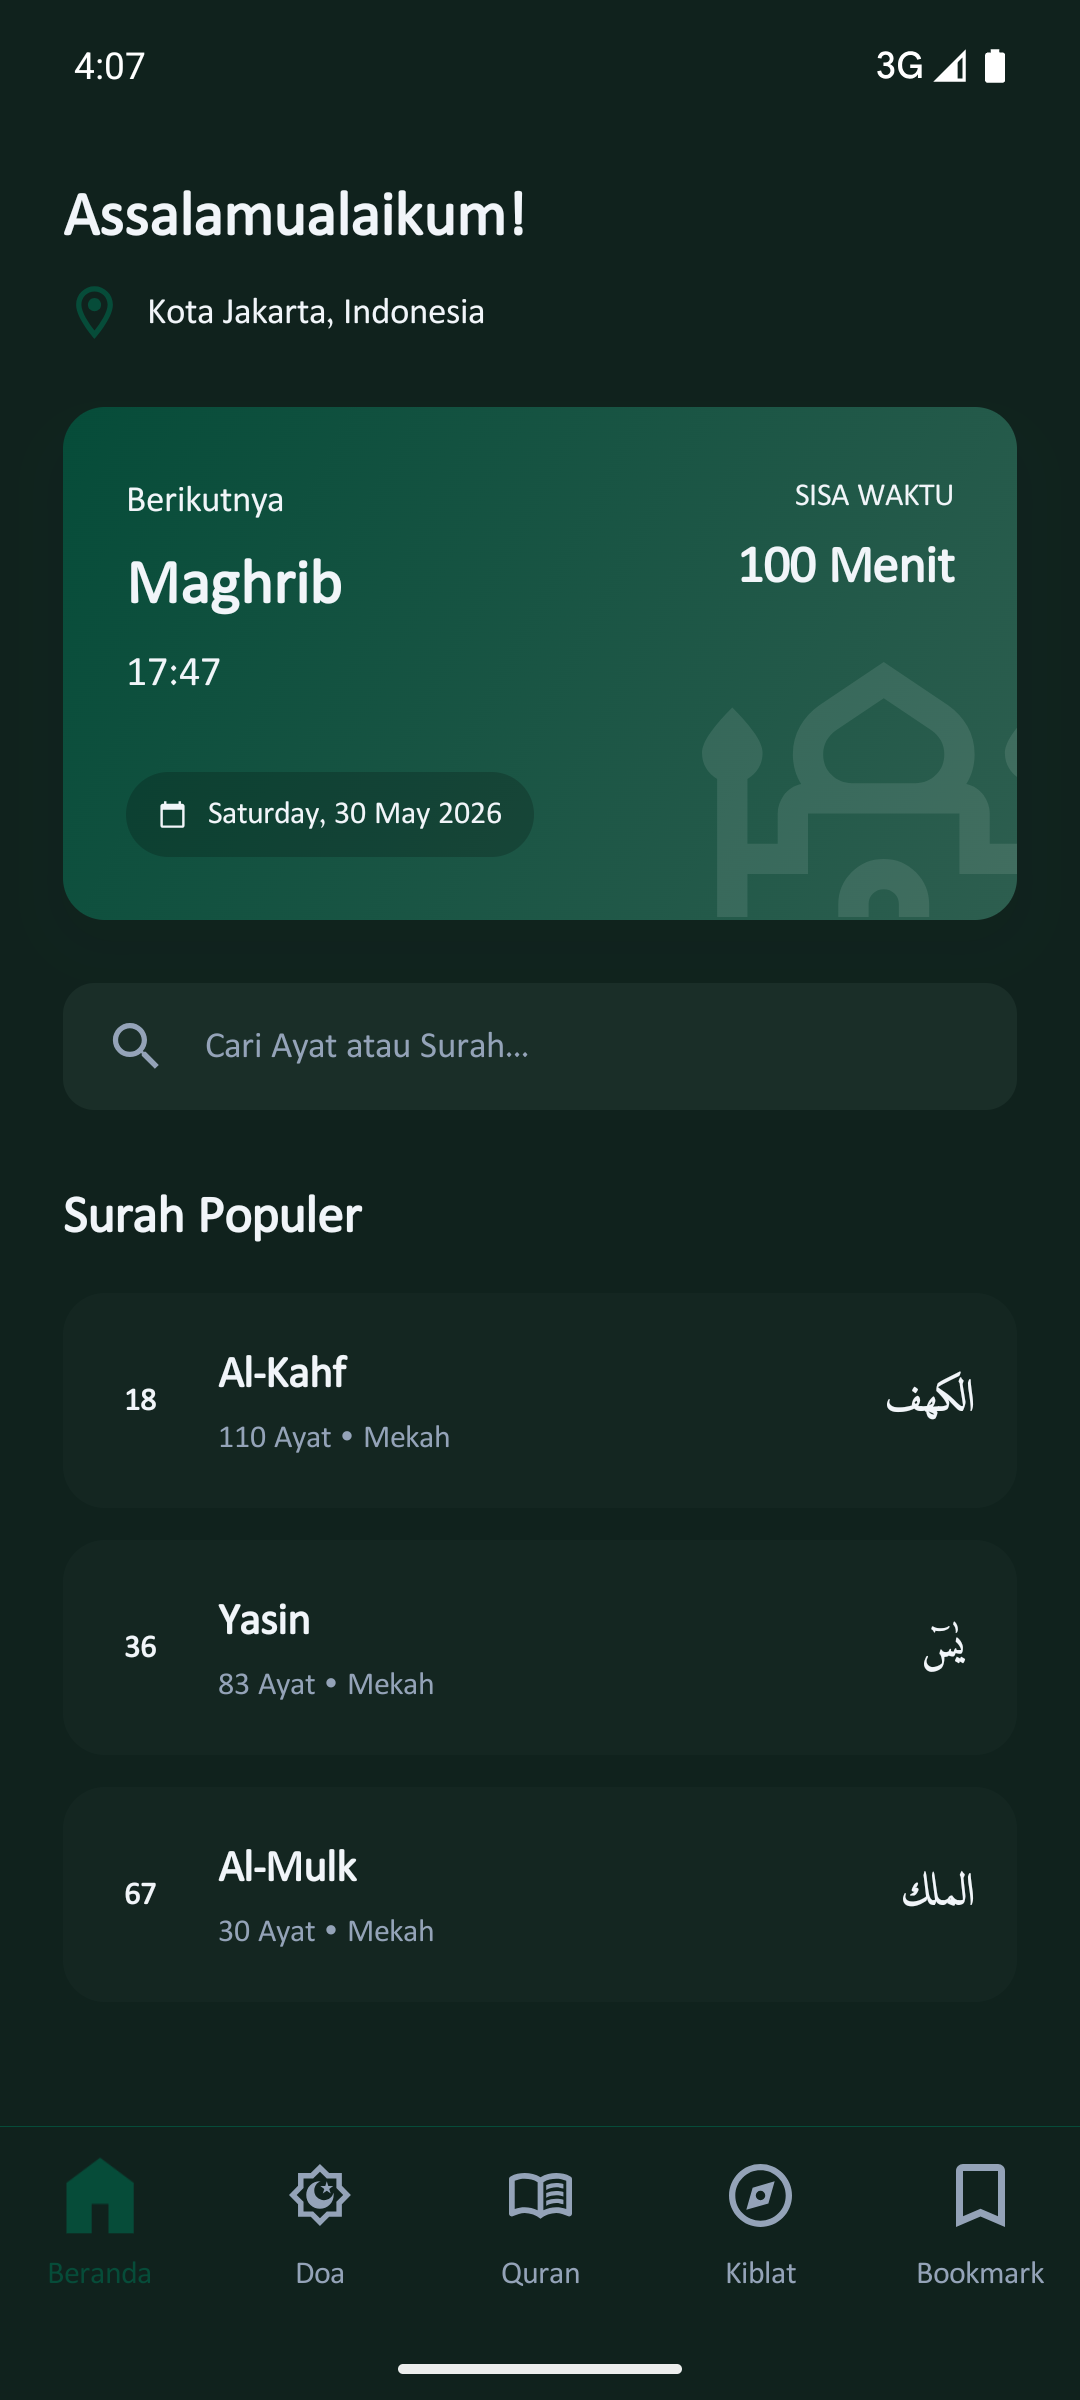
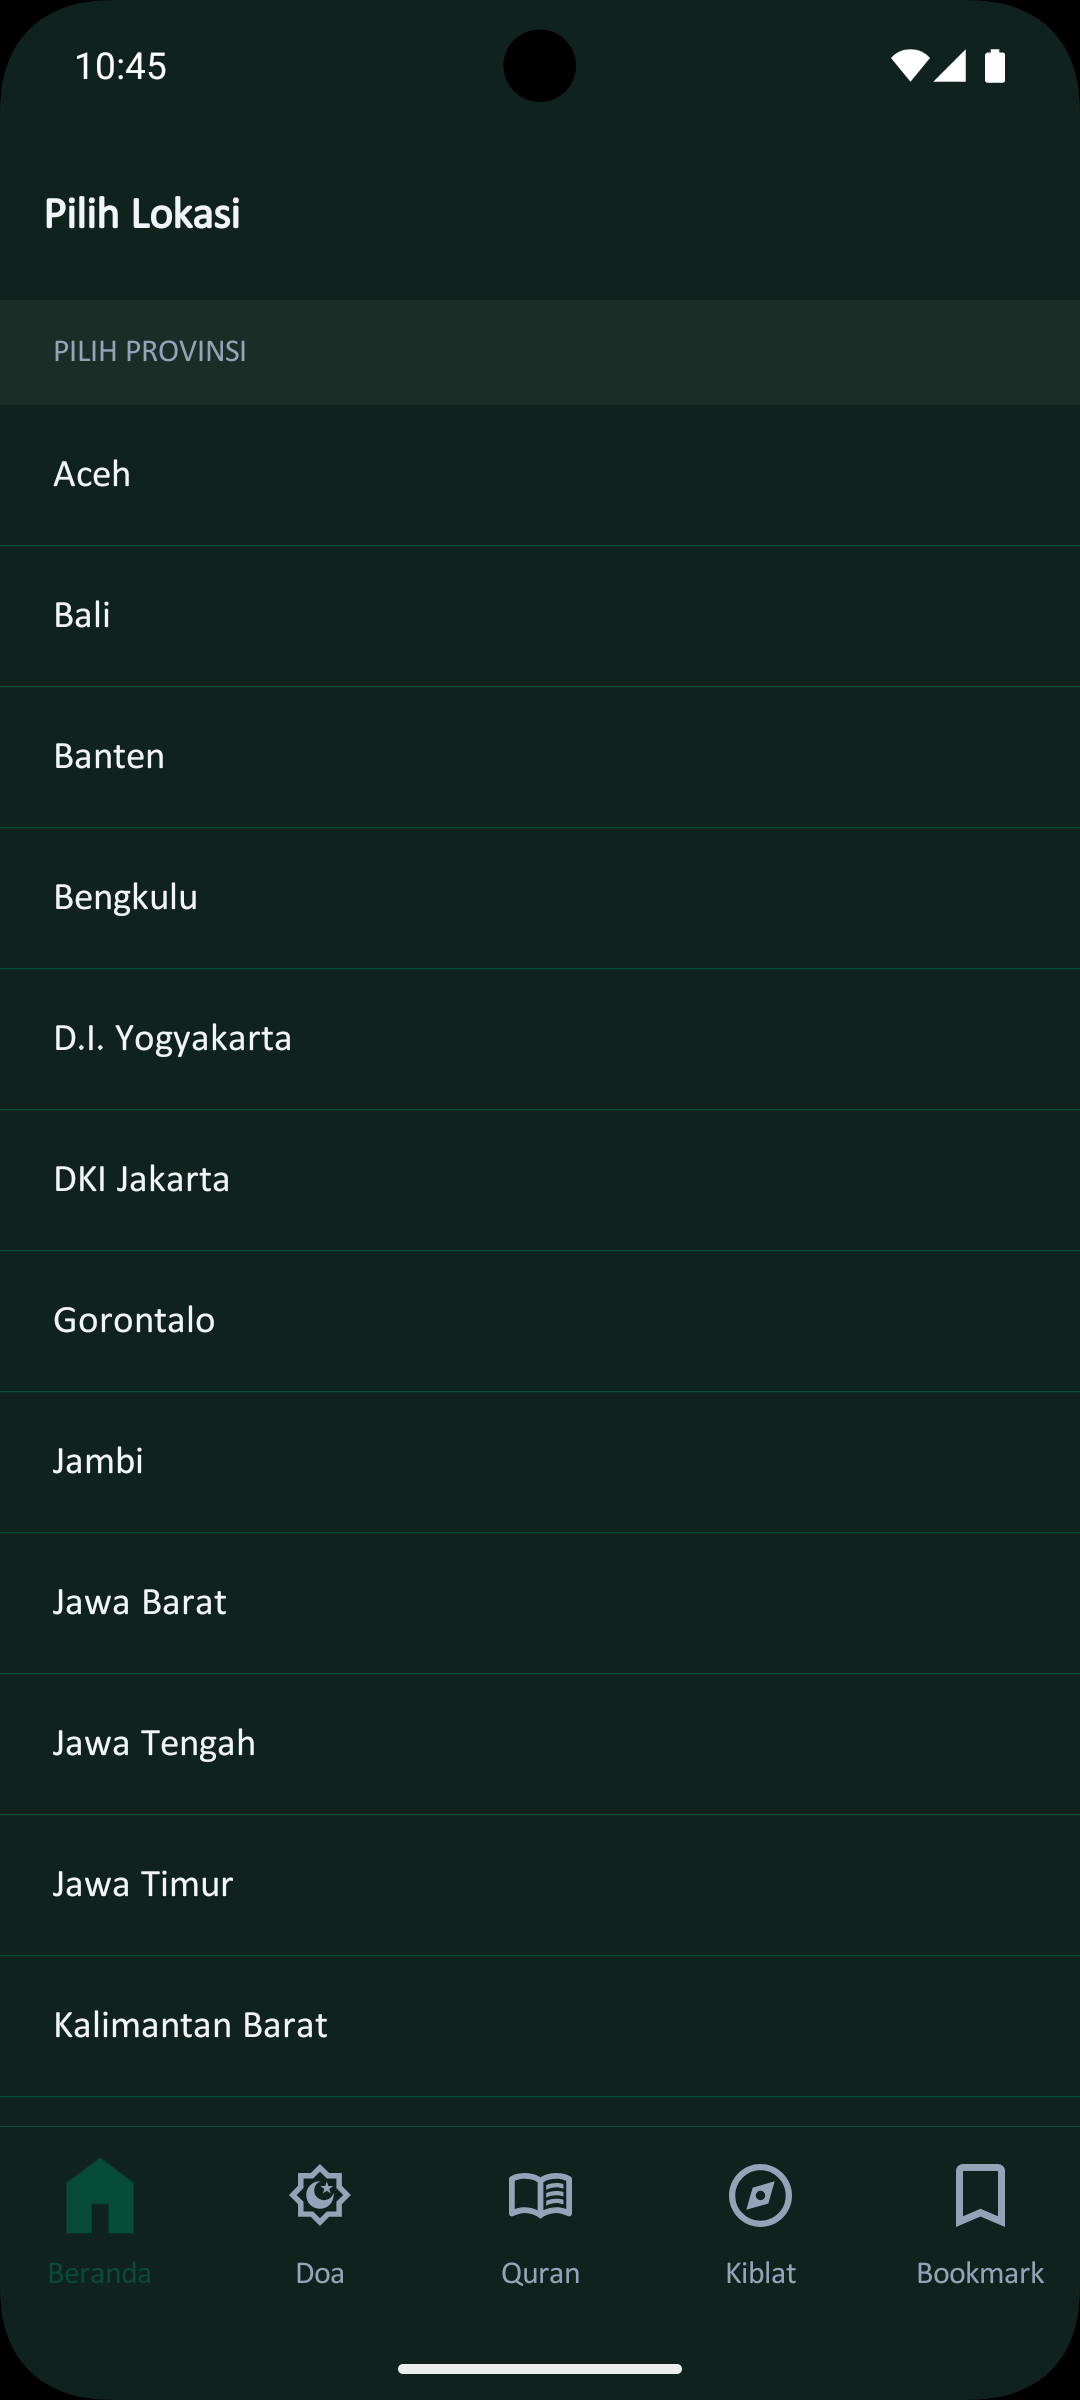
docs: add video demos for Adzan notification, Ayat sharing, and bookmark navigation in README

diff --git a/README.md b/README.md
@@ -71,6 +71,13 @@ The Prayer tab displays a live countdown timer to the next prayer (e.g., _01:38:
 All five daily prayers — **Subuh, Dzuhur, Ashar, Maghrib, Isya** — are listed with their scheduled times and per-prayer alarm toggles.
 A date picker lets you check past or future schedules at a glance.
 
+<details>
+<summary>🎬 Watch Adzan Notification Demo</summary>
+
+<video src="docs/assets/videos/pray_time_notif.webm" autoplay loop muted playsinline width="280"></video>
+
+</details>
+
 ---
 
 ### 📖 Quran
@@ -108,6 +115,13 @@ The **ayat bottom sheet** (_Pilihan Ayat_) gives you instant access to:
 
 Saved ayats show a **"Tersimpan di bookmark"** badge.
 
+<details>
+<summary>🎬 Watch Ayat Share Demo</summary>
+
+<video src="docs/assets/videos/quran_ayat_share.mp4" autoplay loop muted playsinline width="280"></video>
+
+</details>
+
 <table>
   <tr>
     <td align="center"><b>Audio Player</b></td>
@@ -124,7 +138,7 @@ The floating audio player bar shows the **Now Playing** surah and ayat, reciter 
 <details>
 <summary>🎬 Watch Audio Playback Demo</summary>
 
-<video src="docs/assets/videos/quran_audio_playback.mp4" autoplay loop muted playsinline width="280"></video>
+<video src="docs/assets/videos/quran_audio_playback.webm" autoplay loop muted playsinline width="280"></video>
 
 </details>
 
@@ -173,6 +187,13 @@ The **"Ayat Favorit"** tab organizes your saved ayats with:
 - **Full-text search** — FTS-powered instant search across all bookmarks
 - **Create new playlist** — bottom sheet with name input and color palette
 - **Delete** — remove individual bookmarks or entire categories
+
+<details>
+<summary>🎬 Watch Bookmark Navigation & Copy Demo</summary>
+
+<video src="docs/assets/videos/quran_bookmark_nav_and_copy_ayat.mp4" autoplay loop muted playsinline width="280"></video>
+
+</details>
 
 ---
 